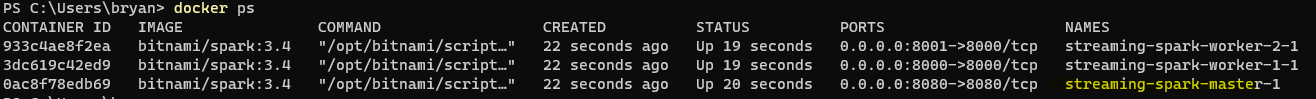
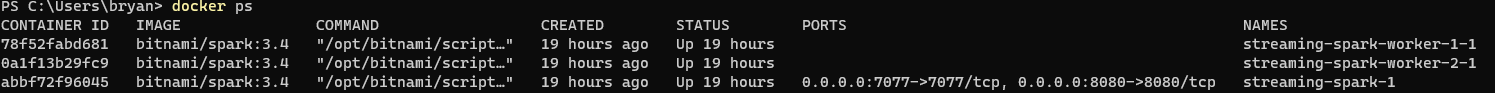
add files

diff --git a/rddexercise.py b/rddexercise.py
@@ -15,8 +15,8 @@ if __name__ == "__main__":
     # $example on:init_session$
     spark = SparkSession \
         .builder \
-        .appName("Python Spark SQL basic example") \
-        .config("spark.some.config.option", "some-value") \
+        .appName("Python") \
+        #.config("spark.some.config.option", "some-value") \
         .getOrCreate()
     # $example off:init_session$
 

diff --git a/README.md b/README.md
@@ -38,7 +38,7 @@ El objetivo de estar instalar es contar con una cluster multinodo, con las tecno
 
 * Ingresar al contenedor de Spark Master
     ```bash
-    docker exec -it fcf06787541f bash
+    docker exec -it abbf72f96045 bash
     ```
 
 * Ejecutar un codigo python para validar nuestro cluster
